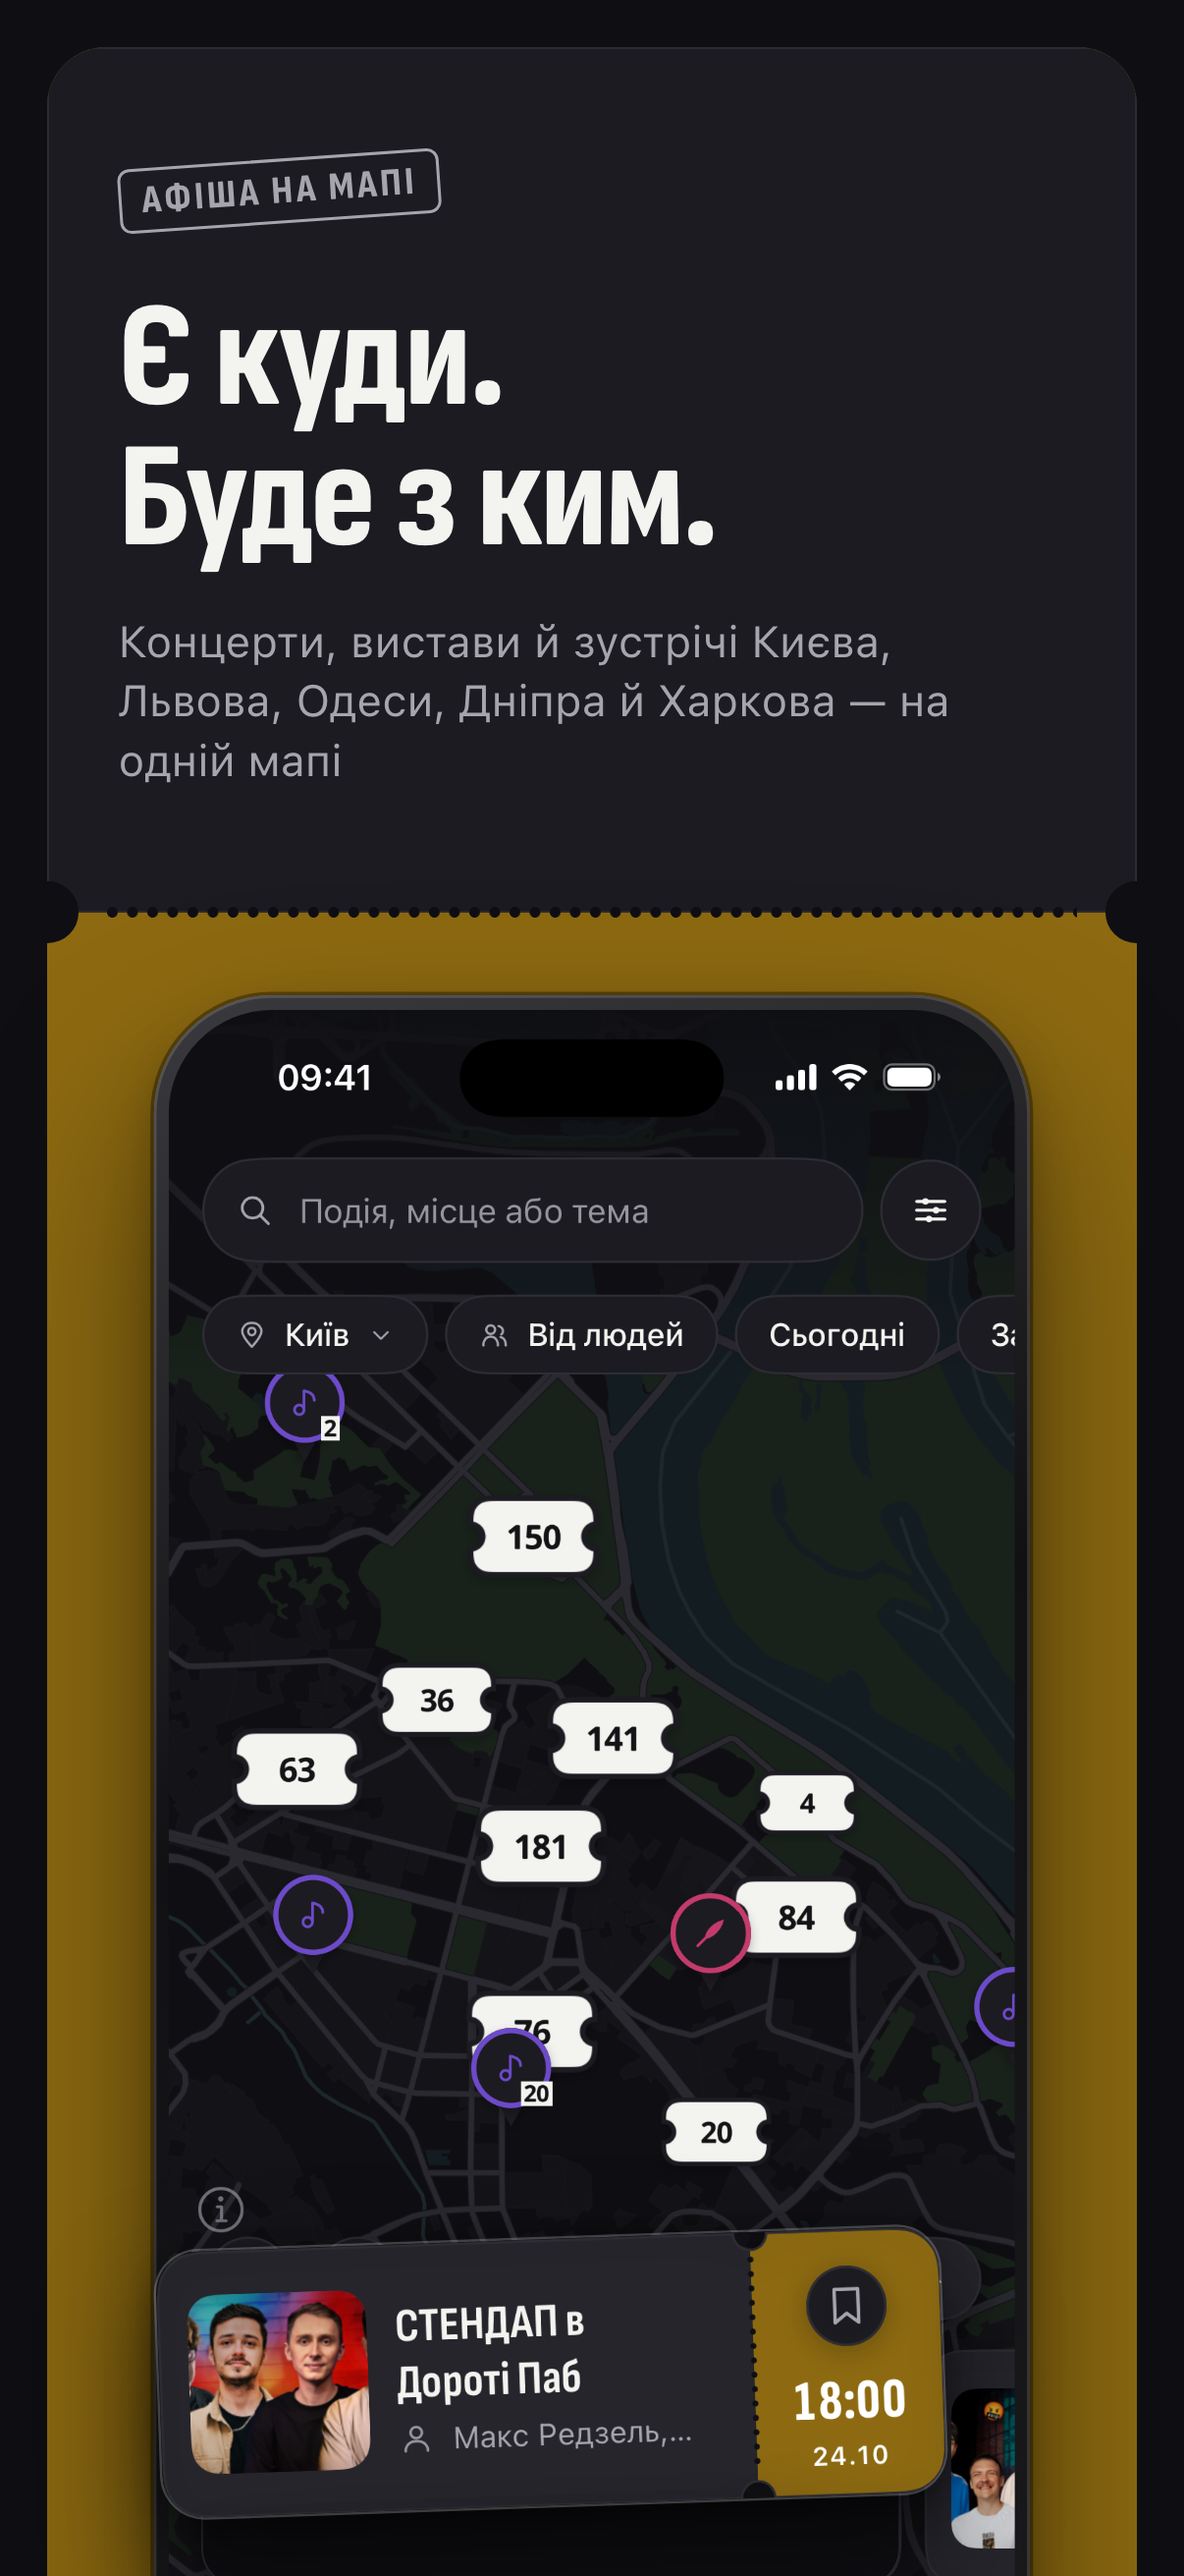
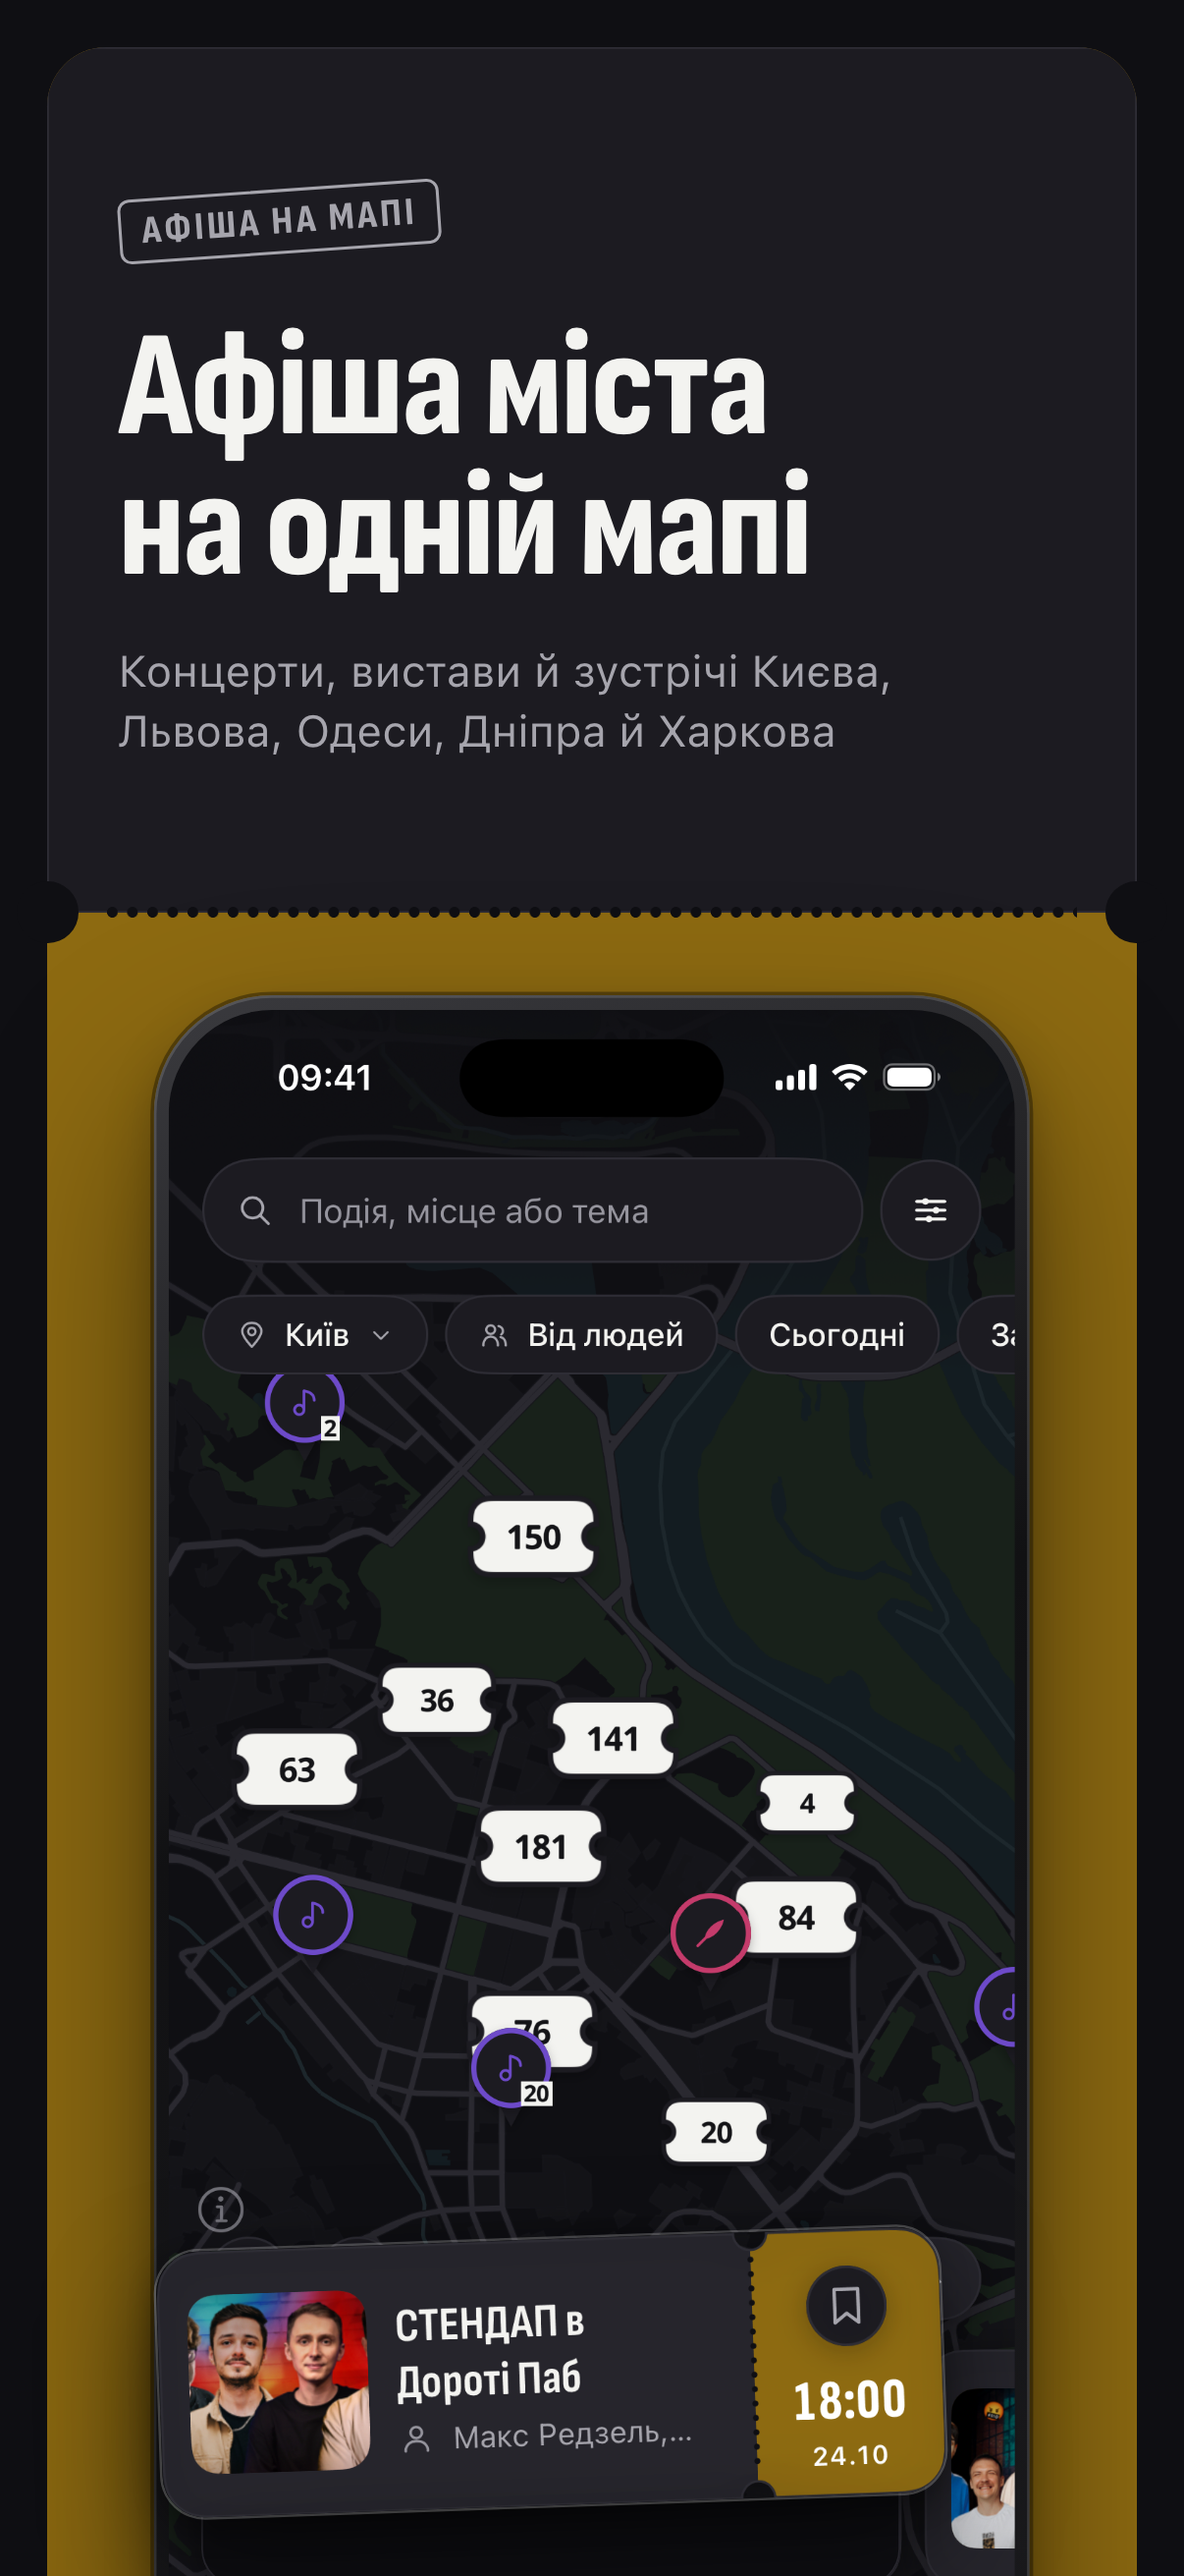
feat(store): скріни «Покличте друга» і «Події біля дому»
Два нові слайди в tools/store_shots.py, порядок SLIDES = порядок стору:
мапа, «Шукаю компанію», «У місті», «Покличте друга», «Події біля дому»,
укриття, «Зберіть своїх». Сирі екрани знято на dev: запрошення від
демо-профілю «Марта» на «Магію Мішеля Леграна», район — Подільський.
У Play 7 скрінів на перевірці; в App Store — з наступною версією.
listing.md: заголовок першого слайда, Header/Search Results, тексти й
статуси ASO від 26.10.

Changed region(s): [[0.092, 0.0618, 0.7977, 0.3089]]

diff --git a/tools/store_shots.py b/tools/store_shots.py
@@ -32,8 +32,9 @@ RAW = {"ios": (1206, 2622), "and": (1080, 2400)}
 SLIDES = [
     dict(
         key="map", stub={"ios": "#8D6A11", "and": "#54701B"},  # стендап / екскурсія на картці
-        stamp="Афіша на мапі", title="Є куди.<br>Буде з ким.",
-        sub="Концерти, вистави й зустрічі Києва, Львова, Одеси, Дніпра й Харкова — на одній мапі",
+        # Слоган — у Header сторінки App Store (tools/store_creative.mjs), тут не повторюємо.
+        stamp="Афіша на мапі", title="Афіша міста на&nbsp;одній мапі",
+        sub="Концерти, вистави й зустрічі Києва, Львова, Одеси, Дніпра й Харкова",
         ios=(46, 1906, 1042, 2244, 54, -2), android=(41, 1821, 952, 2115, 47, -2),
     ),
     dict(
@@ -43,22 +44,35 @@ SLIDES = [
         ios=(34, 2098, 1166, 2521, 66, 2), android=(31, 1945, 1046, 2315, 58, 2),
     ),
     dict(
-        key="create", stub="#A24C29",
-        stamp="Від людей", title="Зберіть своїх",
-        sub="Настолки, пробіжка чи кіно: назва, точка на мапі й час — і квиток готовий",
-        ios=(46, 454, 1158, 986, 42, -2), android=(41, 251, 1037, 716, 37, -2),
-    ),
-    dict(
         key="home", stub="#AC345E",  # «Kyiv Modern-Ballet», мистецтво
         stamp="У місті", title="Куди піти — за хвилину",
         sub="Сотні подій із квиткових сервісів: концерти, стендап, вистави й виставки",
         ios=(46, 483, 1002, 1566, 54, 1.5), android=(41, 240, 970, 1185, 47, 1.5),
+    ),
+    # Запрошення знято на dev: Марта (демо-профіль) кличе на «Магію Мішеля Леграна», рядок видно лише другу.
+    dict(
+        key="invite", stub="#6041B1",  # «Магія Мішеля Леграна», музика
+        stamp="Покликати", title="Покличте друга",
+        sub="Друг отримає посилання й побачить, що кличете саме ви",
+        ios=(34, 975, 1172, 1700, 42, 1.5), android=(31, 845, 1049, 1495, 37, 1.5),
+    ),
+    dict(
+        key="district", stub={"ios": "#8D6A11", "and": "#AC345E"},  # комедійне шоу / «Kyiv Modern-Ballet» на картці
+        stamp="Район", title="Події біля дому",
+        sub="Оберіть свій район — і мапа та список покажуть лише його",
+        ios=(40, 398, 910, 526, 64, -2), android=(36, 348, 800, 462, 57, -2),
     ),
     dict(
         key="safety", stub="#6041B1",  # концерт у філармонії
         stamp="Безпека", title="Укриття поруч&nbsp;— ще до виходу",
         sub="Найближчі укриття й час до комендантської біля кожної події. Укриття — поки що для Києва",
         ios=(47, 1297, 1157, 2048, 42, -1.5), android=(41, 1174, 1037, 1833, 37, -1.5),
+    ),
+    dict(
+        key="create", stub="#A24C29",
+        stamp="Від людей", title="Зберіть своїх",
+        sub="Настолки, пробіжка чи кіно: назва, точка на мапі й час — і квиток готовий",
+        ios=(46, 454, 1158, 986, 42, -2), android=(41, 251, 1037, 716, 37, -2),
     ),
 ]
 
